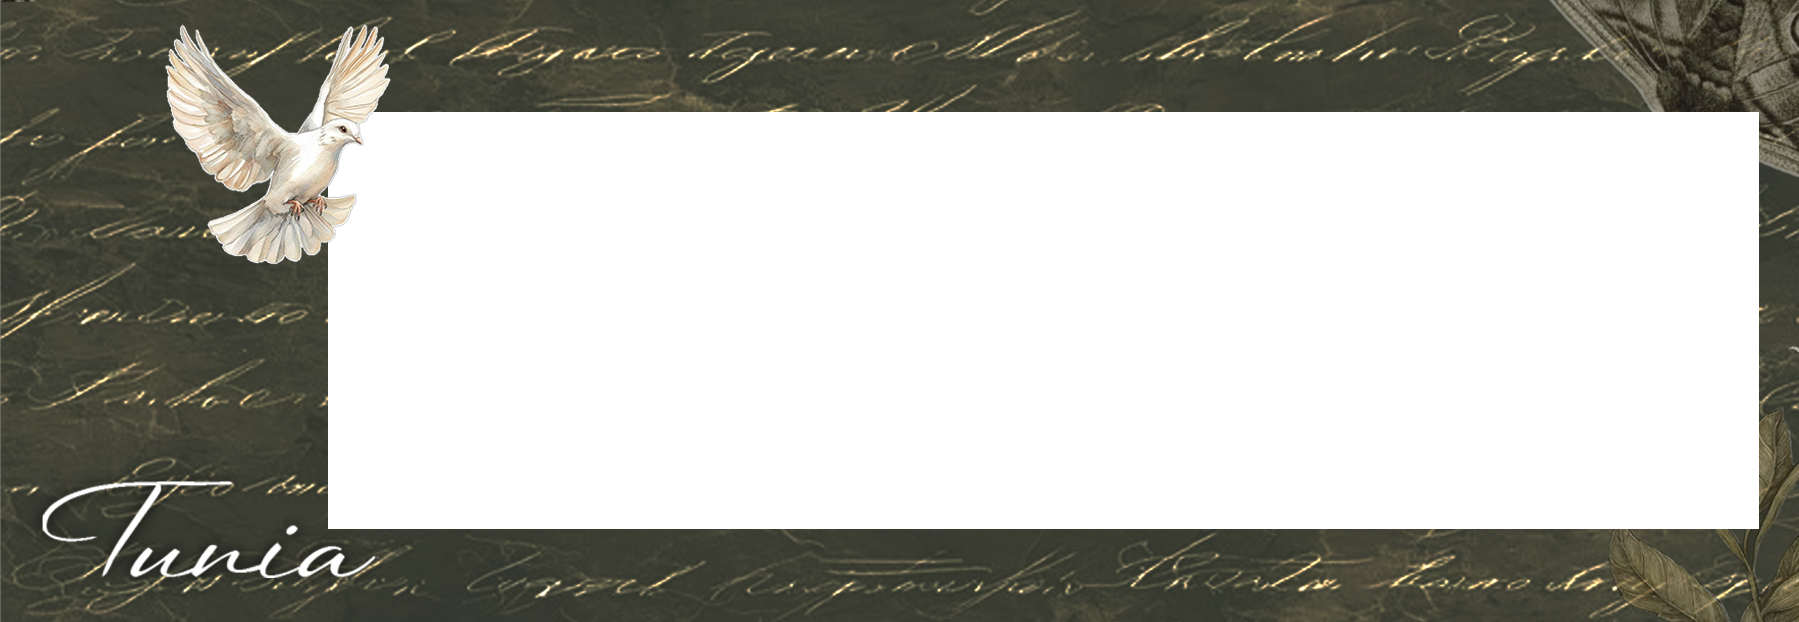
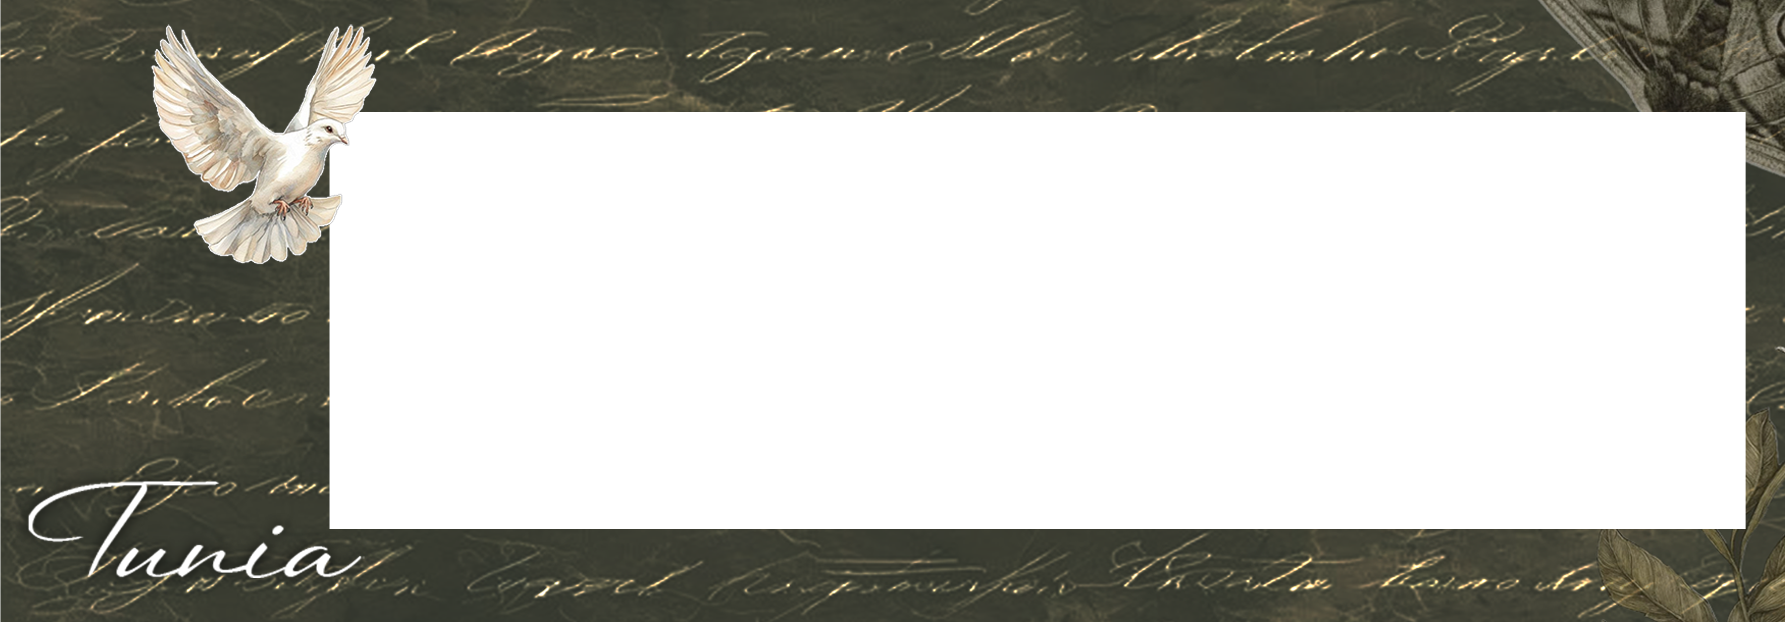
Bộ Olive: cập nhật theo template mới (5 khung)
Claude-Session: https://claude.ai/code/session_01GLWZobNJyggWmLWZgkmE38

diff --git a/index.html b/index.html
@@ -234,7 +234,7 @@
 </div>
 
 <script src="config.js"></script>
-<script src="app.js?v=25"></script>
+<script src="app.js?v=26"></script>
 <script src="send.js?v=3"></script>
 </body>
 </html>
